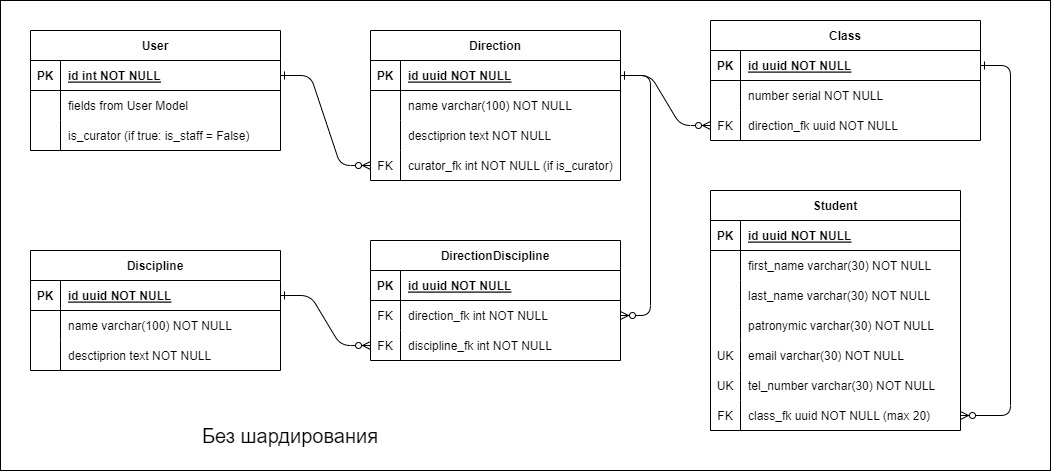
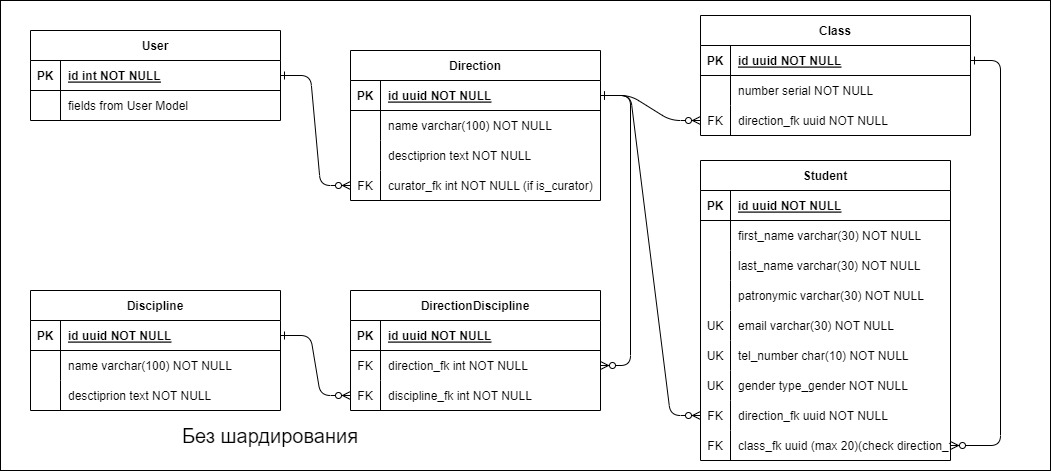
add util for insert students to db, restructure db schema

diff --git a/common/util_fill_db/fill_students.py b/common/util_fill_db/fill_students.py
@@ -1,0 +1,84 @@
+import random
+import uuid
+from abc import ABC
+from dataclasses import dataclass, astuple
+
+from datetime import datetime
+from typing import List, Dict
+
+import psycopg2
+from faker import Faker
+from psycopg2.extras import execute_batch
+from psycopg2.extensions import cursor
+
+from common.util_fill_db.settings import COUNT_STUDENT, DSN, PAGE_SIZE
+
+
+@dataclass
+class Student():
+    id: str
+    first_name: str
+    last_name: str
+    patronymic: str
+    email: str
+    tel_number: str
+    gender: str
+    direction_fk: str
+
+
+class DirectionDataHandler():
+    """Обработчик процесса получения данных и формирования объекта.
+    Внешний интерфейс"""
+
+    def __init__(self, cur: cursor) -> None:
+        self.cur = cur
+
+    def __call__(self) -> List[str]:
+        query = 'SELECT (id) FROM direction'
+        self.cur.execute(query)
+        direction_ids = [direction[0] for direction in self.cur]
+        return direction_ids
+
+
+class StudentLoadDataHandler():
+    """Обработчик процесса заполнения БД фейковыми данными
+    Внешний интерфейс"""
+
+    def __init__(self, cur: cursor, direction_ids):
+        self.cur = cur
+        self.data = direction_ids
+
+    def __call__(self) -> None:
+        query = 'INSERT INTO student ' \
+                '(id, first_name, last_name, patronymic, email, ' \
+                'tel_number, gender, direction_fk) ' \
+                'VALUES (%s, %s, %s, %s, %s, %s, %s, %s)'
+
+        students = []
+        for _ in range(COUNT_STUDENT):
+            students.append(
+                Student(id=str(uuid.uuid4()),
+                        first_name=fake.first_name(),
+                        last_name=fake.last_name(),
+                        patronymic=fake.last_name(),
+                        email=fake.email(),
+                        tel_number=str(random.randint(10 ** 10, 10 ** 11)),
+                        gender=random.choice(['female', 'male']),
+                        direction_fk=random.choice(self.data))
+            )
+
+        data_student = [astuple(student) for student in students]
+        execute_batch(self.cur, query, data_student,
+                      page_size=PAGE_SIZE)
+
+
+if __name__ == '__main__':
+    fake = Faker()
+    now = datetime.now()
+
+    with psycopg2.connect(**DSN) as conn, conn.cursor() as curs:
+        download_handler = DirectionDataHandler(curs)
+        direction_data = download_handler()
+
+        load_handler = StudentLoadDataHandler(curs, direction_data)
+        load_handler()

diff --git a/common/util_fill_db/settings.py b/common/util_fill_db/settings.py
@@ -1,0 +1,12 @@
+DSN = {
+    'dbname': 'education_db',
+    'user': 'admin',
+    'password': 'admin',
+    'host': 'localhost',
+    'port': 5432,
+    'options': '-c search_path=content',
+    'connect_timeout': 5
+}
+
+COUNT_STUDENT = 50
+PAGE_SIZE = 50
